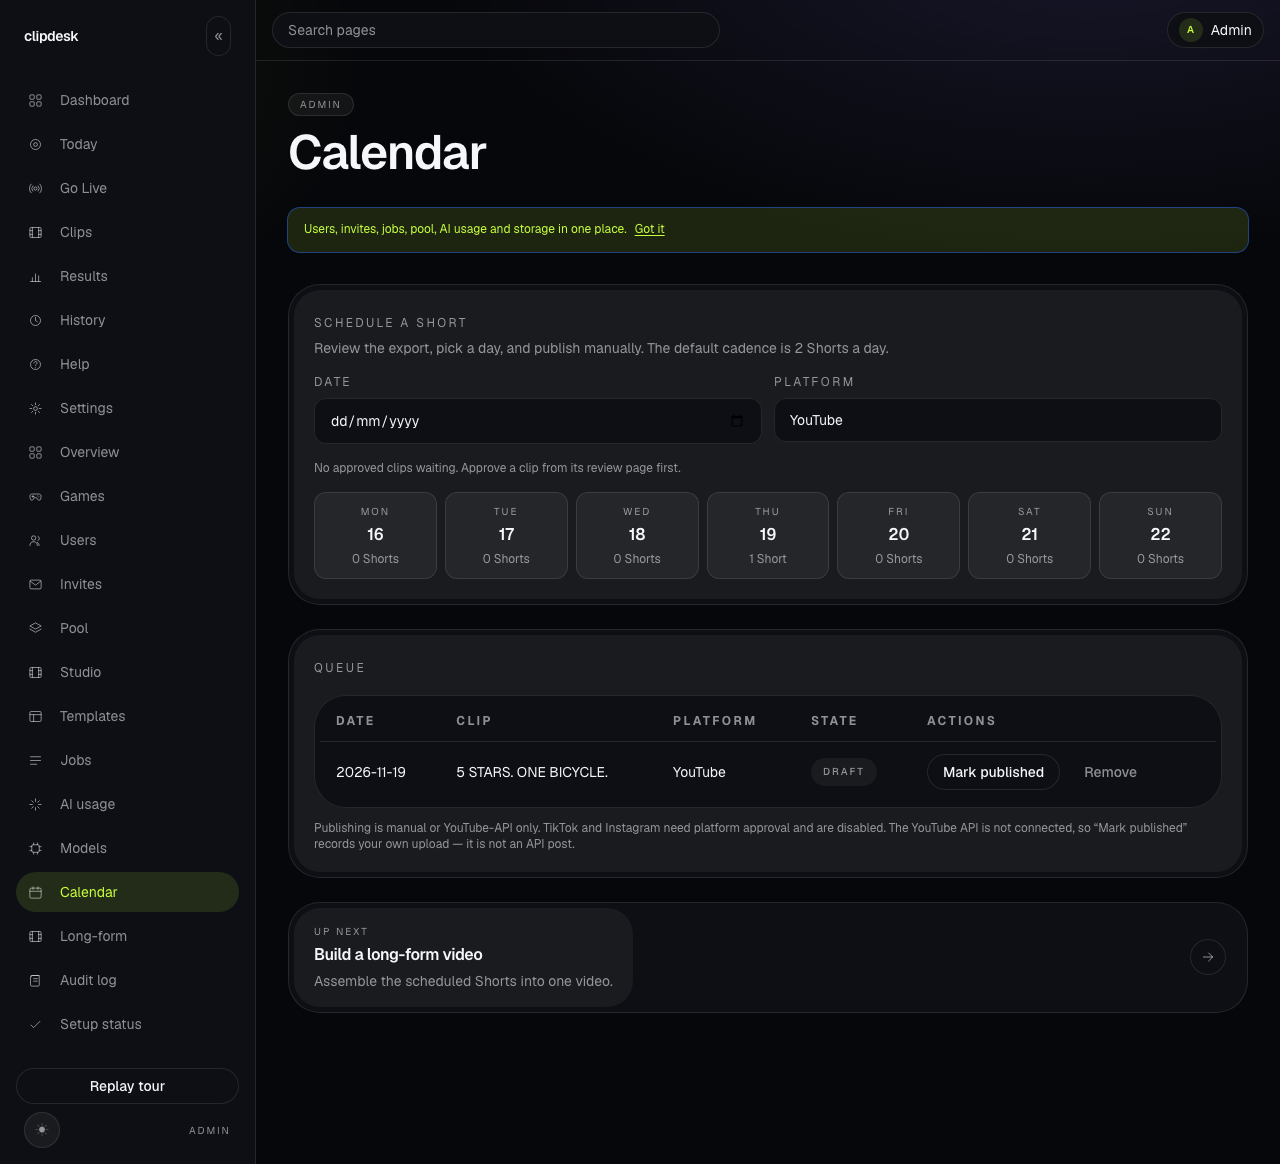
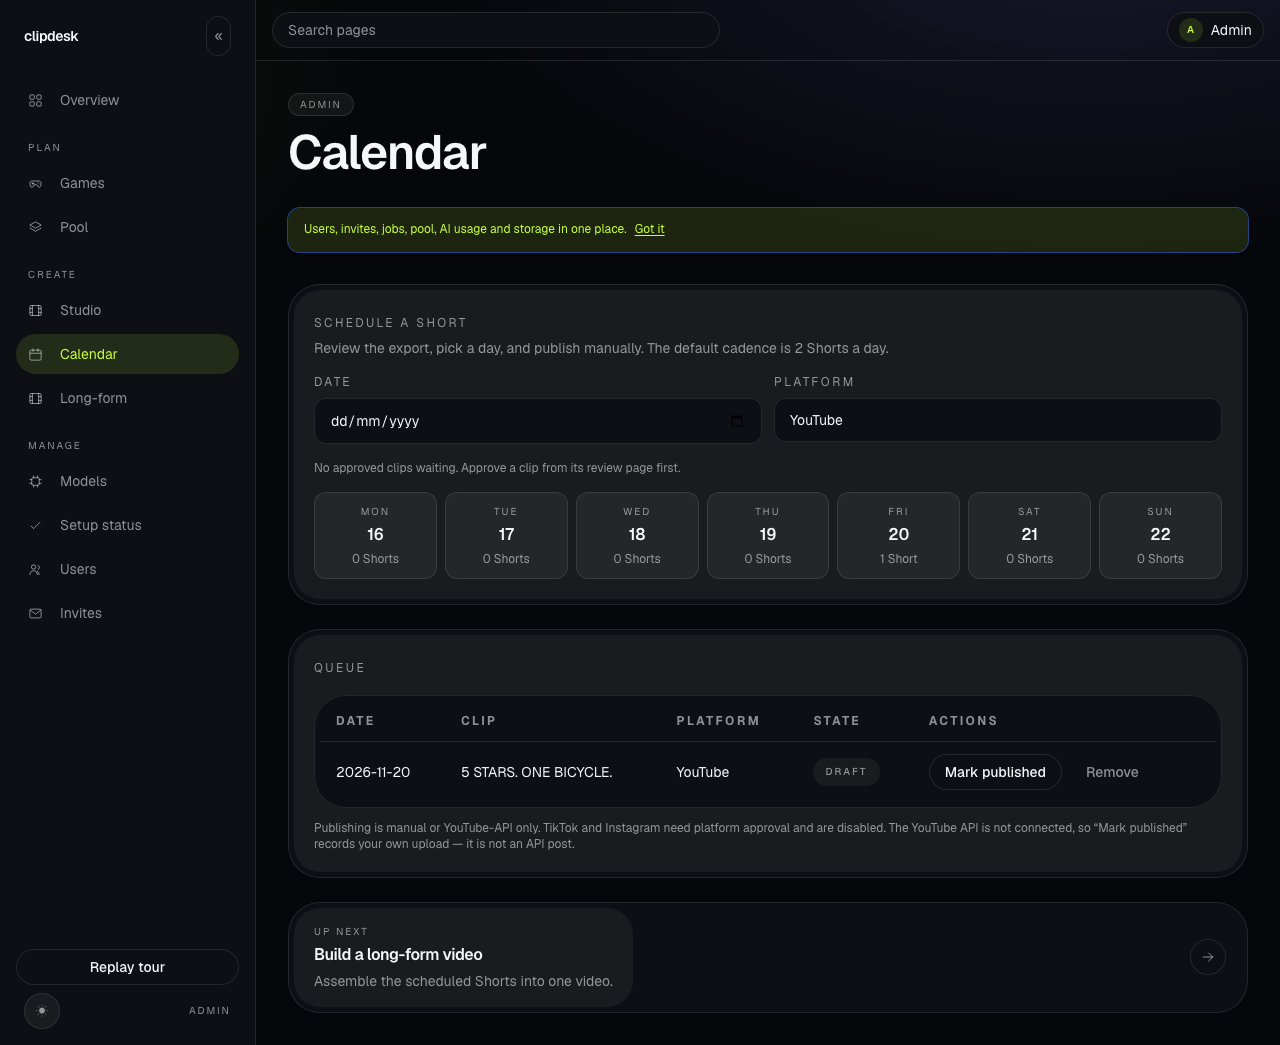
Final sprint: a gamer never sees the admin Overview link

diff --git a/web/components/shell.tsx b/web/components/shell.tsx
@@ -123,10 +123,10 @@ export function AppShell({ user, children }: { user: Me; children: ReactNode }) 
   }, [accountOpen]);
 
   const groups = useMemo(() => {
-    const all: { label: string; items: NavItem[] }[] = [
-      { label: "", items: [{ href: "/admin", label: "Overview", icon: "grid" }] },
-      ...(user.role === "admin" ? ADMIN : GAMER),
-    ];
+    const all: { label: string; items: NavItem[] }[] =
+      user.role === "admin"
+        ? [{ label: "", items: [{ href: "/admin", label: "Overview", icon: "grid" }] }, ...ADMIN]
+        : GAMER;
     const q = query.trim().toLowerCase();
     if (!q) return all;
     return all
